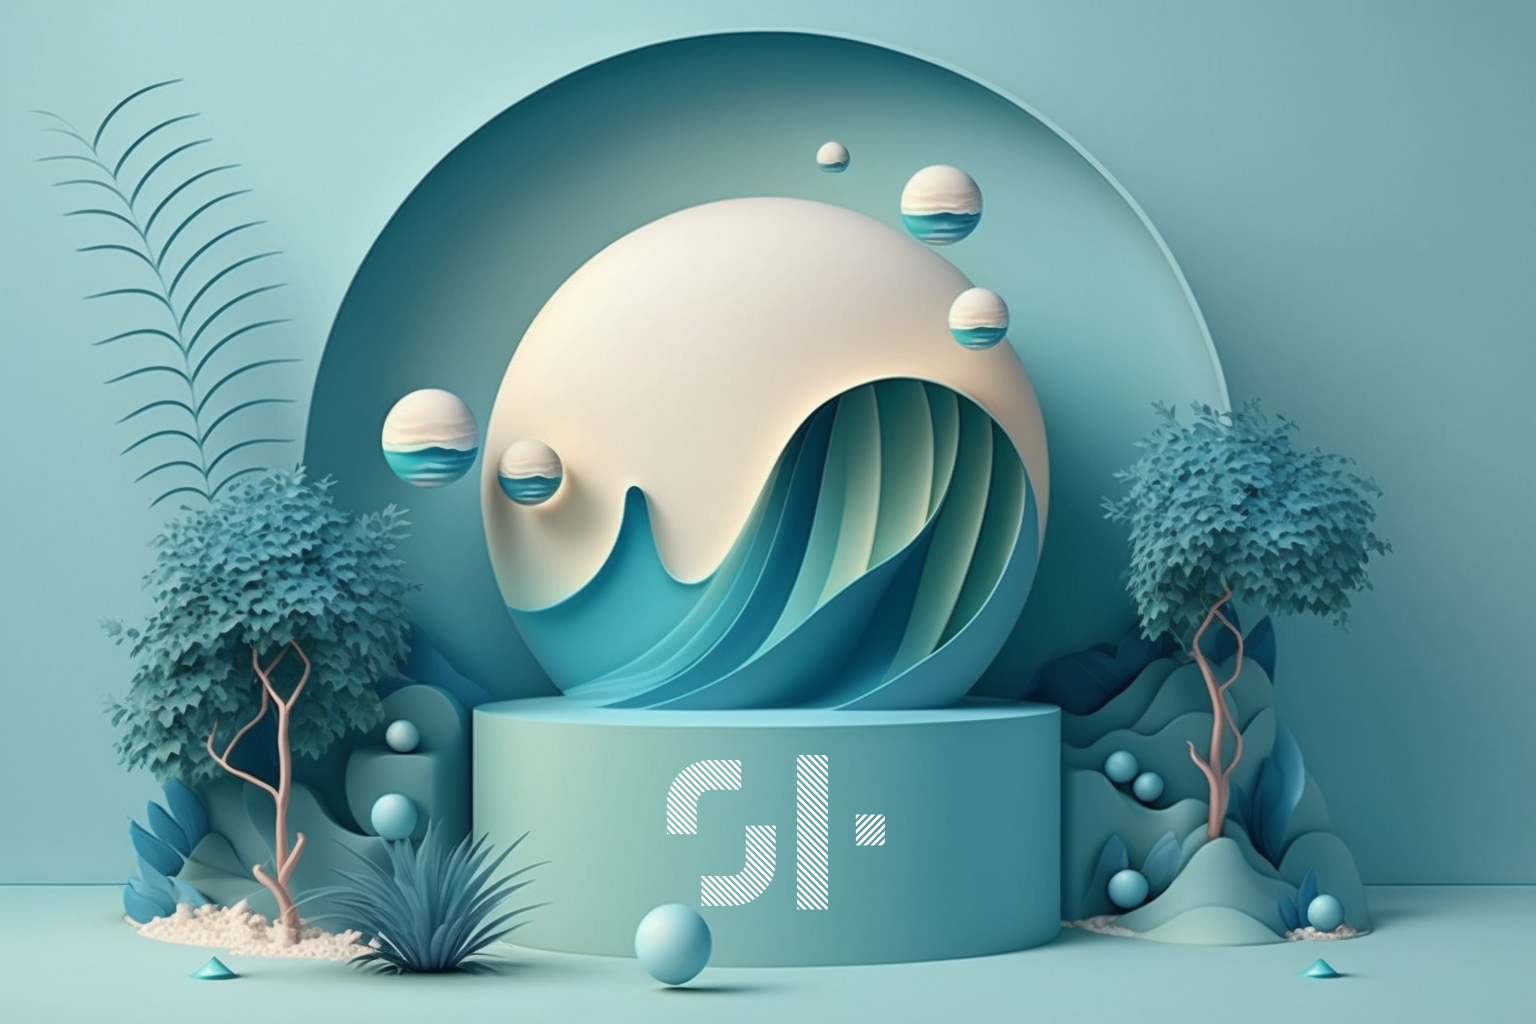
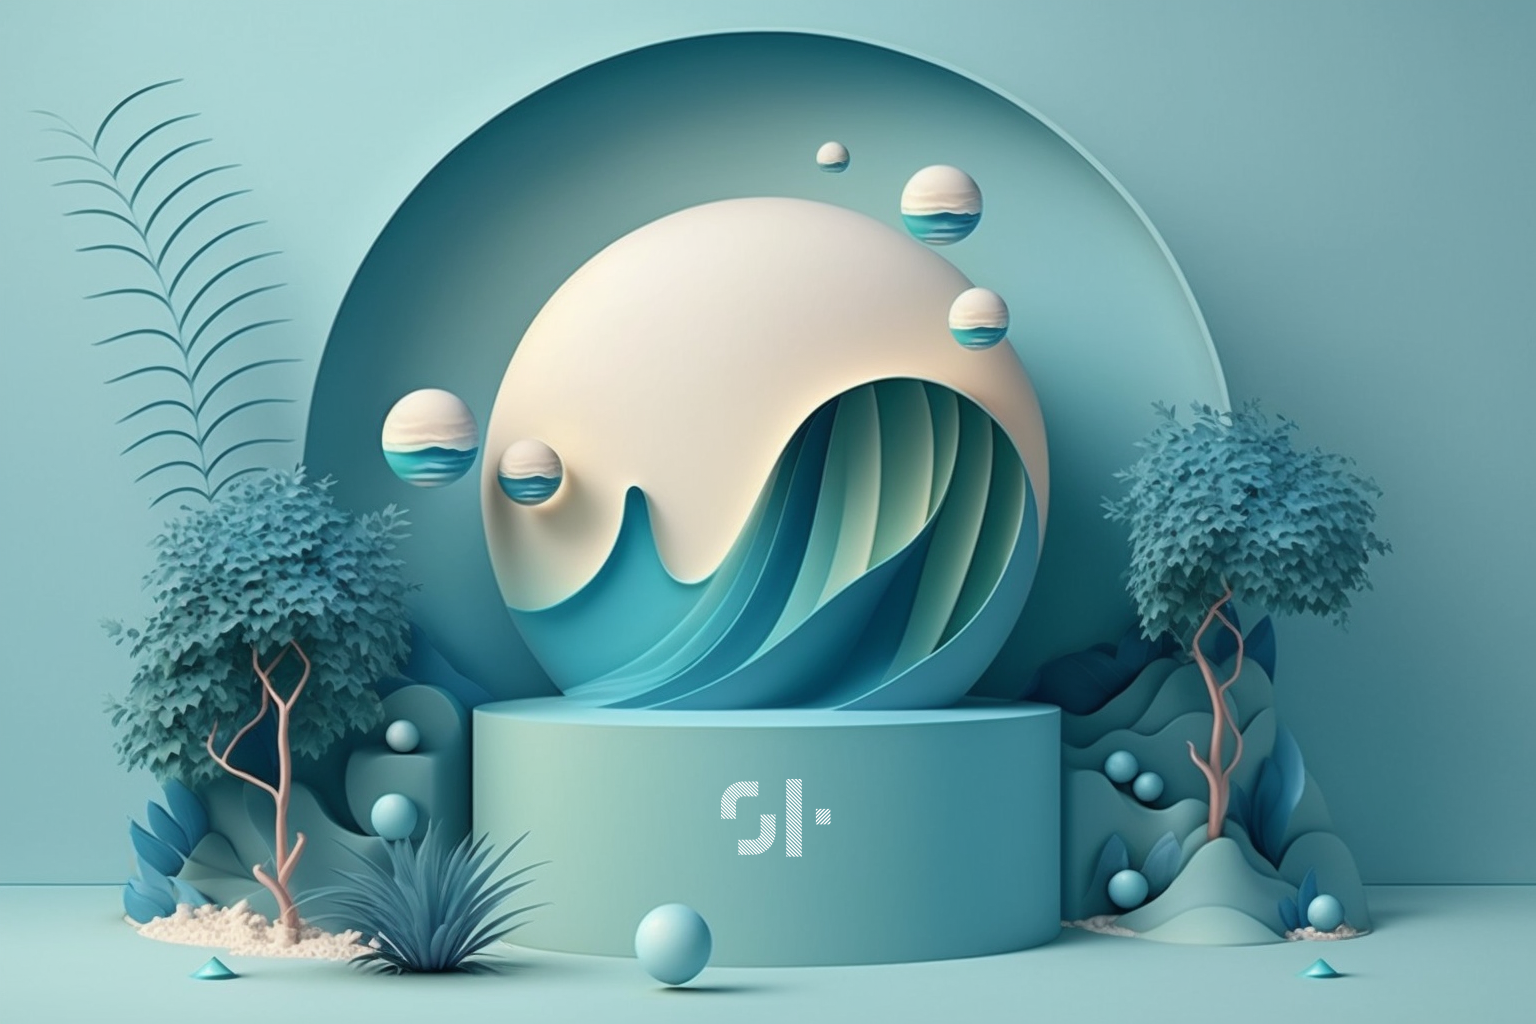
typewriter

Changed region(s): [[0.4375, 0.75, 0.5938, 0.9062]]

diff --git a/assets/styles/index.css b/assets/styles/index.css
@@ -249,11 +249,10 @@ header .t nav ul li {
   -webkit-box-align: center;
       -ms-flex-align: center;
           align-items: center;
-  text-transform: uppercase;
   color: white;
-  font-size: 1.375em;
+  font-size: 1.2em;
+  letter-spacing: 1px;
   font-family: "Roboto", sans-serif;
-  font-weight: 500;
   margin-right: 2em;
 }
 
@@ -385,6 +384,23 @@ header .t nav ul a:hover::after {
 .home {
   height: 100vh;
   width: 100vw;
+}
+
+.home #writer {
+  font-family: "Roboto", sans-serif;
+  font-size: 4em;
+  position: absolute;
+  top: 50%;
+  left: 50%;
+  -webkit-transform: translate(-50%, -50%);
+          transform: translate(-50%, -50%);
+  background: linear-gradient(135deg, rgba(255, 255, 255, 0.1), rgba(255, 255, 255, 0));
+  backdrop-filter: blur(10px);
+  -webkit-backdrop-filter: blur(10px);
+  border-radius: 20px;
+  border: 1px solid rgba(255, 255, 255, 0.18);
+  -webkit-box-shadow: 0 8px 32px 0 rgba(0, 0, 0, 0.37);
+          box-shadow: 0 8px 32px 0 rgba(0, 0, 0, 0.37);
 }
 
 .home .border_radius {

diff --git a/index.html b/index.html
@@ -61,7 +61,7 @@
             </li>
 
             <li>
-              <a href="#contact">contact</a>
+              <a href="#contact">Contact</a>
             </li>
           </ul>
         </nav>
@@ -83,6 +83,7 @@
             alt="image logo"
           />
         </div>
+        <h1 id="writer"></h1>
       </section>
 
       <section id="works" class="realisation mask section">
@@ -200,6 +201,7 @@
       <div class="cont"></div>
     </div>
     <script src="https://cdnjs.cloudflare.com/ajax/libs/gsap/3.7.1/gsap.min.js"></script>
+    <script src="https://unpkg.com/typewriter-effect@latest/dist/core.js"></script>
     <script src="https://cdnjs.cloudflare.com/ajax/libs/gsap/3.7.1/ScrollTrigger.min.js"></script>
     <script src="https://cdn.jsdelivr.net/npm/vivus@0.4.6/dist/vivus.min.js"></script>
     <script src="data.js"></script>

diff --git a/app.js b/app.js
@@ -9,6 +9,27 @@ window.onscroll = function () {
   }
 };
 */
+
+//Animation texte accueil
+const writer = document.querySelector("#writer");
+
+new Typewriter(writer, {
+  loop: true,
+  deleteSpeed: 60,
+})
+  .changeDelay(60)
+  .typeString("Hello,<br> Moi c'est Greg<br>")
+  .pauseFor(300)
+  .typeString("<span style='color: #FFE990'>Designer,</span>")
+  .pauseFor(1000)
+  .deleteChars(10)
+  .typeString(
+    "<span style='color: #FFE990'><br>Dev Front-End Javascript-React</span>"
+  )
+  .pauseFor(1000)
+
+  .start();
+
 const loader = document.querySelector(".loader");
 window.addEventListener("load", () => {
   if (localStorage.getItem("premierChargement") === null) {

diff --git a/assets/styles/layouts/_section_homepage.scss b/assets/styles/layouts/_section_homepage.scss
@@ -2,6 +2,21 @@
   height: 100vh;
   width: 100vw;
 
+  #writer{
+    font-family: $font2;
+    font-size: 4em;
+    position: absolute;
+    top: 50%;
+    left: 50%;
+    transform: translate(-50%, -50%);
+    background: linear-gradient(135deg, rgba(255, 255, 255, 0.1), rgba(255, 255, 255, 0));
+    backdrop-filter: blur(10px);
+    -webkit-backdrop-filter: blur(10px);
+    border-radius: 20px;
+    border:1px solid rgba(255, 255, 255, 0.18);
+    box-shadow: 0 8px 32px 0 rgba(0, 0, 0, 0.37);
+  }
+
   
  .border_radius{
   border-radius: 50%;

diff --git a/assets/styles/layouts/_header.scss b/assets/styles/layouts/_header.scss
@@ -18,11 +18,10 @@ header {
           position: relative;
           display: flex;
           align-items: center;
-          text-transform: uppercase;
           color: $white;
-          font-size: 1.375em;
+          font-size: 1.2em;
+          letter-spacing: 1px;
           font-family: $font2;
-          font-weight:500;
           margin-right: 2em;
      
         }
